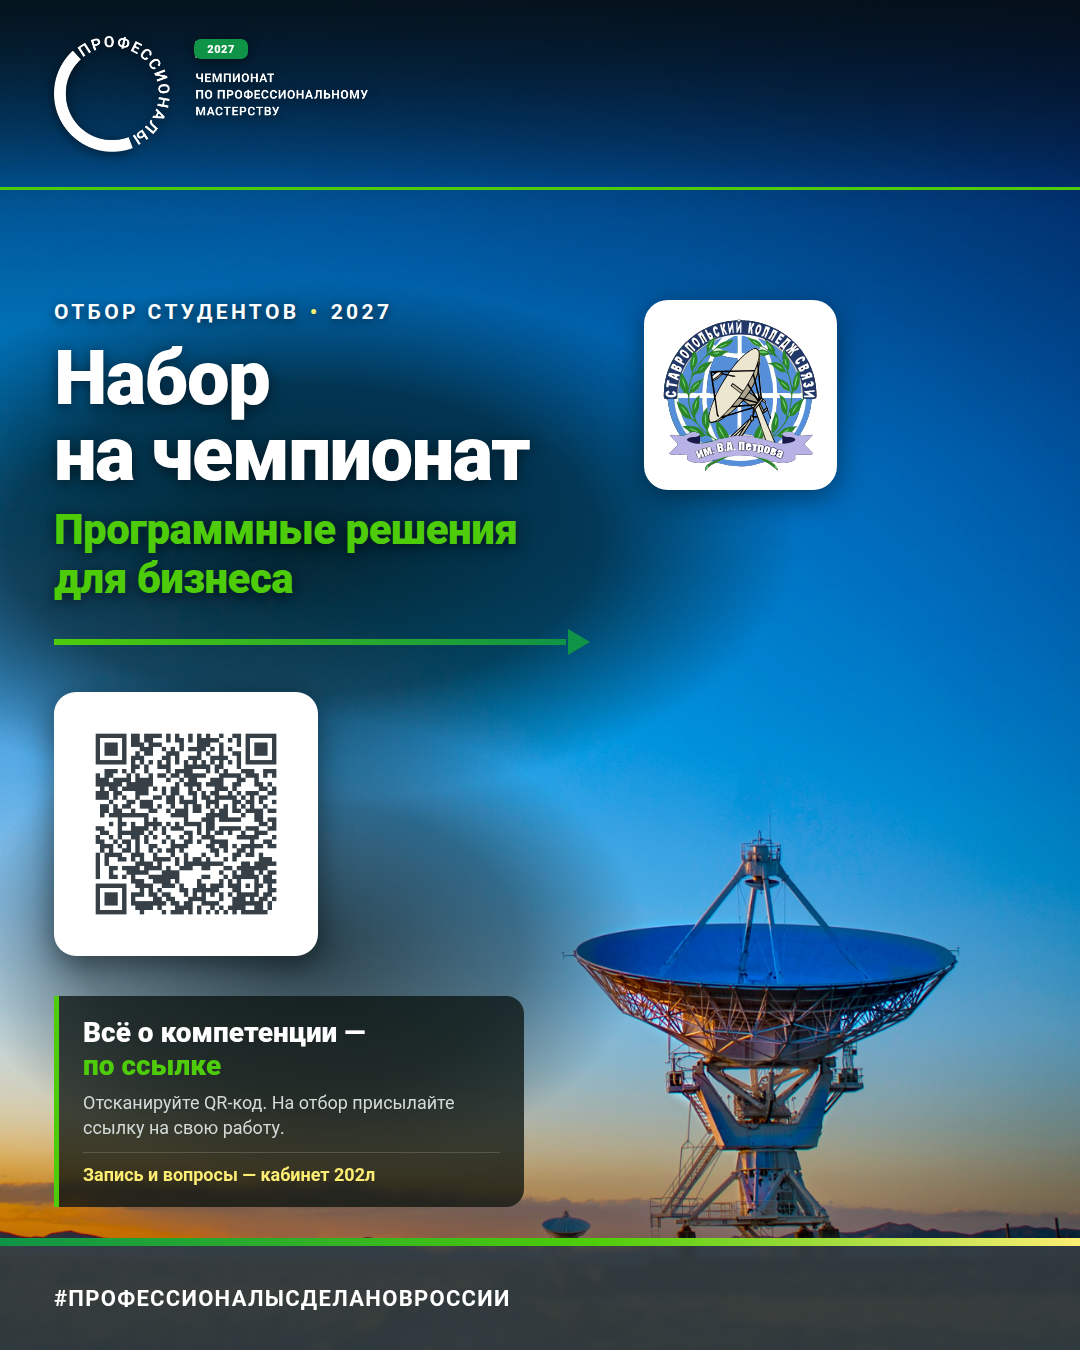
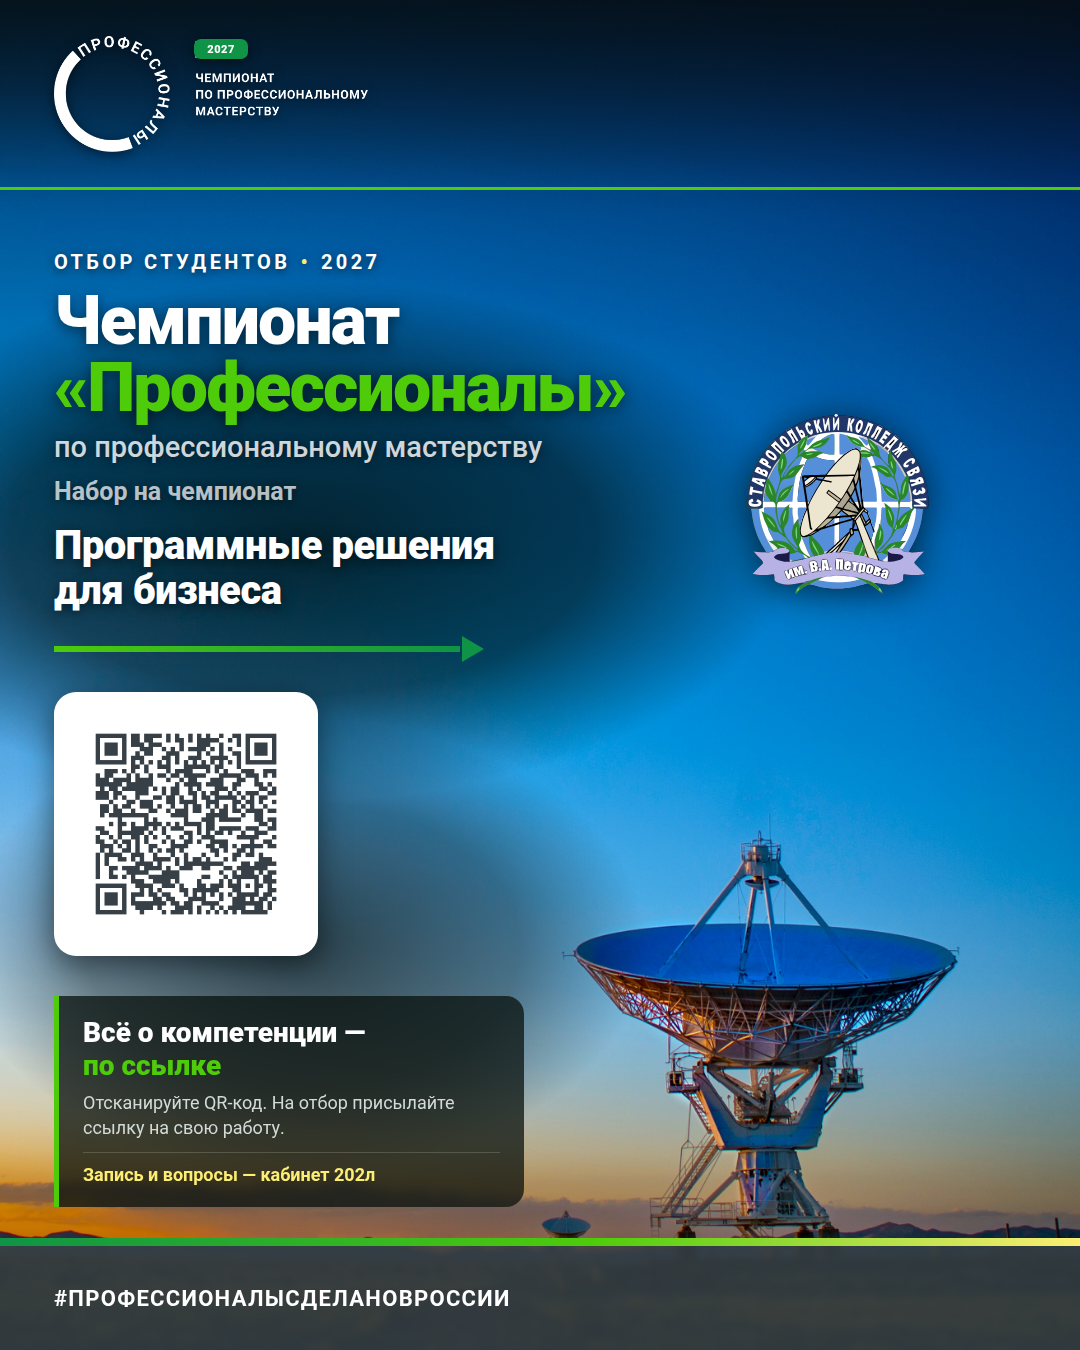
feat(poster): иерархия текста и логотип колледжа без подложки
Иерархия переставлена: главными стали название движения и компетенция,
а не призыв.

- h1 68 px: «Чемпионат» белым и «Профессионалы» фирменным зелёным
- «по профессиональному мастерству» — 29 px, пояснение под названием,
  в одну строку: при двух строках отступ съедал 34 px и поджимал h1
- «Набор на чемпионат» — 25 px, опущен до подзаголовка; раньше он
  шёл 76 px и был крупнее всего остального, хотя по сути призыв
- h2 «Программные решения для бизнеса» — 40 px, второй по важности блок
- колонка расширена до 560 px, линейка сужена до 430 px: при 78 px
  строка «Профессионалы» занимала 585 px и вылезала за колонку, а
  стрелка линейки доходила до карточки QR

Логотип колледжа
- убрана белая плашка — остался чистый svg поверх фотографии
- вместо подложки только тень: она отделяет знак от тёмного неба,
  не закрывая фон
- выравнивание задаёт слот — свободная зона правой части полотна:
  x 650…1026 (до правого поля) и y 236…772 (от низа шапки до верха
  антенны). Логотип центрируется в слоте, а не висит произвольно

Changed region(s): [[0.0306, 0.1867, 0.8861, 0.4978]]

diff --git a/post/poster.html b/post/poster.html
@@ -101,51 +101,75 @@
     font-size: 11px; font-weight: 900; letter-spacing: .5px;
     color: var(--white);
   }
-  /* Логотип колледжа вынесен из шапки в правую часть полотна: там
-     свободное небо, знак становится вторым элементом композиции.
-     Выравнивание по той же сетке, что и текстовая колонка:
-     верхняя кромка — на y 300 (как у .content), левая — на 644,
-     то есть следующая позиция модулем 54 после конца колонки (590). */
-  .college-plate {
+  /* ---------- Логотип колледжа ----------
+     Без подложки: чистый svg поверх фотографии. Чтобы отделить знак от
+     тёмного неба, вместо фона — только тень, и она не перекрывает фон.
+     Выравнивание задаёт слот: это и есть свободная зона в правой части
+     полотна — от текстовой колонки до правого поля (x 650…1026) и от
+     низа шапки до верха антенны (y 236…772). Логотип центрируется в ней. */
+  .college-slot {
     position: absolute; z-index: 5;
-    left: 644px; top: 300px;
-    background: var(--white);
-    border-radius: 24px;
-    padding: 15px 16px;
-    box-shadow: 0 8px 30px rgba(0,0,0,.45);
+    left: 650px; top: 236px;
+    width: 376px; height: 536px;
+    display: flex; align-items: center; justify-content: center;
   }
-  .college-plate img { height: 160px; width: auto; display: block; }
+  .college-slot img {
+    height: 190px; width: auto; display: block;
+    filter: drop-shadow(0 4px 18px rgba(0,0,0,.65));
+  }
 
-  /* ---------- Заголовок ---------- */
+  /* ---------- Заголовок ----------
+     Главное — название движения и компетенция. «Набор на чемпионат»
+     опущен до подзаголовка: раньше он занимал 76 px и был крупнее
+     всего остального, хотя по сути призыв, а не предмет. */
   .content {
     position: absolute; z-index: 5;
-    left: 54px; top: 300px;
-    width: 536px;
+    left: 54px; top: 250px;
+    width: 560px;
   }
 
   .eyebrow {
-    font-size: 21px; font-weight: 700; letter-spacing: 3.4px;
+    font-size: 20px; font-weight: 700; letter-spacing: 3.4px;
     text-transform: uppercase;
     text-shadow: 0 2px 8px rgba(0,0,0,.6);
   }
   .eyebrow .dot { color: var(--yellow); margin: 0 10px; }
 
+  /* Название чемпионата — крупнейший блок */
   h1 {
-    margin-top: 16px;
-    font-size: 76px; line-height: 1.0; font-weight: 900;
-    letter-spacing: -1.6px;
+    margin-top: 14px;
+    font-size: 68px; line-height: .98; font-weight: 900;
+    letter-spacing: -1.8px;
     text-shadow: 0 3px 14px rgba(0,0,0,.55);
   }
+  h1 .name { color: var(--green-lite); }
 
-  h2 {
-    margin-top: 14px;
-    font-size: 42px; line-height: 1.16; font-weight: 900;
-    color: var(--green-lite);
-    letter-spacing: -.5px;
-    text-shadow: 0 3px 14px rgba(0,0,0,.6);
+  /* Пояснение под названием — на порядок мельче */
+  .kicker {
+    margin-top: 10px;
+    font-size: 29px; line-height: 1.16; font-weight: 500;
+    color: rgba(255,255,255,.82);
+    text-shadow: 0 2px 10px rgba(0,0,0,.5);
   }
 
-  .rule { display: flex; align-items: center; margin: 26px 0 0; }
+  /* Призыв — самый мелкий из крупных */
+  .sub {
+    margin-top: 12px;
+    font-size: 25px; line-height: 1.2; font-weight: 700;
+    color: rgba(255,255,255,.72);
+    text-shadow: 0 2px 8px rgba(0,0,0,.5);
+  }
+
+  /* Компетенция — второй по важности блок */
+  h2 {
+    margin-top: 16px;
+    font-size: 40px; line-height: 1.14; font-weight: 900;
+    color: var(--white);
+    letter-spacing: -.5px;
+    text-shadow: 0 3px 12px rgba(0,0,0,.55);
+  }
+
+  .rule { display: flex; align-items: center; margin: 22px 0 0; width: 430px; }
   .rule .bar { height: 6px; flex: 1 1 auto;
     background: linear-gradient(90deg, var(--green-lite) 0%, var(--green) 100%); }
   .rule .arrow { width: 0; height: 0; margin-left: 2px;
@@ -228,14 +252,19 @@
     </div>
   </div>
 
-  <div class="college-plate">
+  <div class="college-slot">
     <img src="../assets/college_logo.svg" alt="Ставропольский колледж связи им. В.А. Петрова">
   </div>
 
   <div class="content">
     <div class="eyebrow">Отбор студентов<span class="dot">•</span>2027</div>
-    <h1>Набор<br>на чемпионат</h1>
-    <h2>Программные решения для бизнеса</h2>
+
+    <h1>Чемпионат<br><span class="name">«Профессионалы»</span></h1>
+    <p class="kicker">по профессиональному мастерству</p>
+
+    <p class="sub">Набор на чемпионат</p>
+
+    <h2>Программные решения<br>для бизнеса</h2>
     <div class="rule"><div class="bar"></div><div class="arrow"></div></div>
   </div>
 
